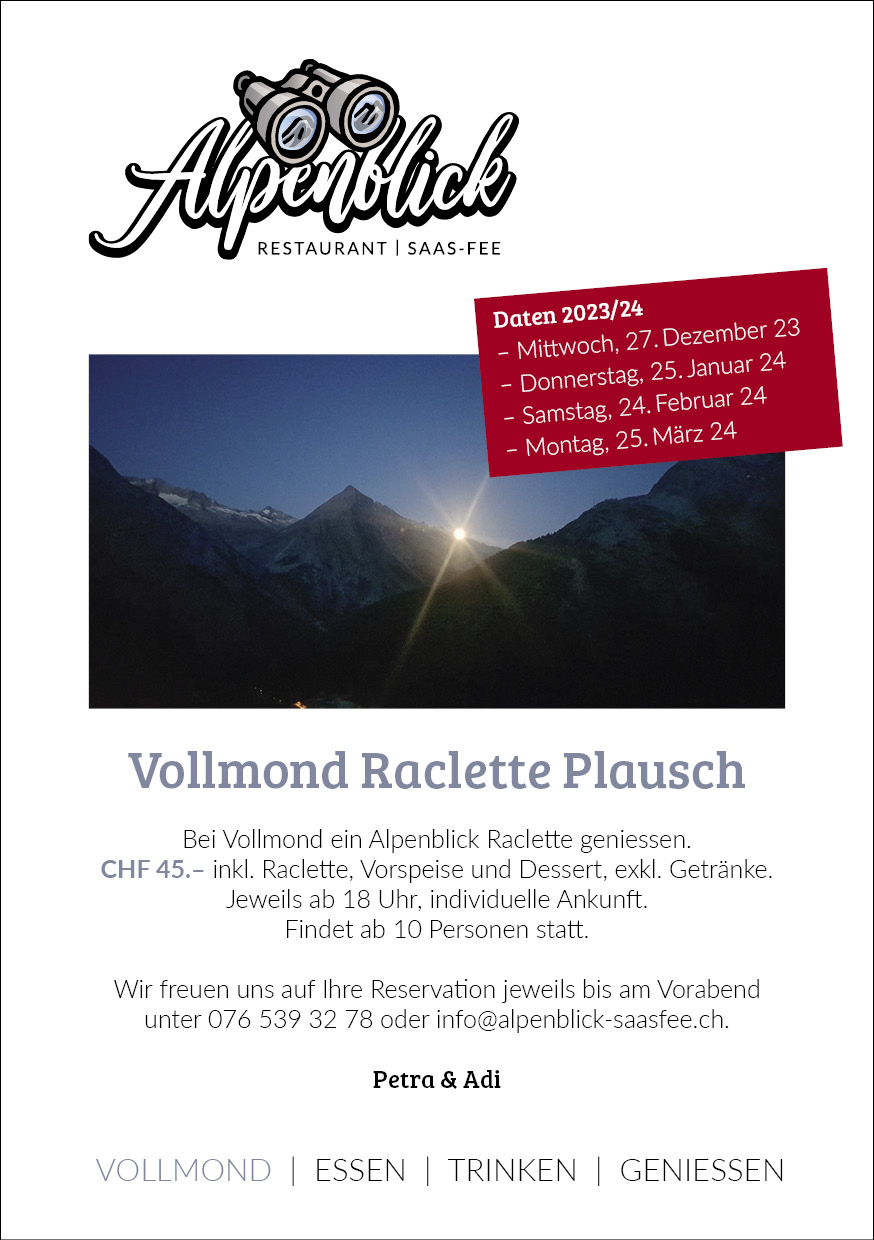
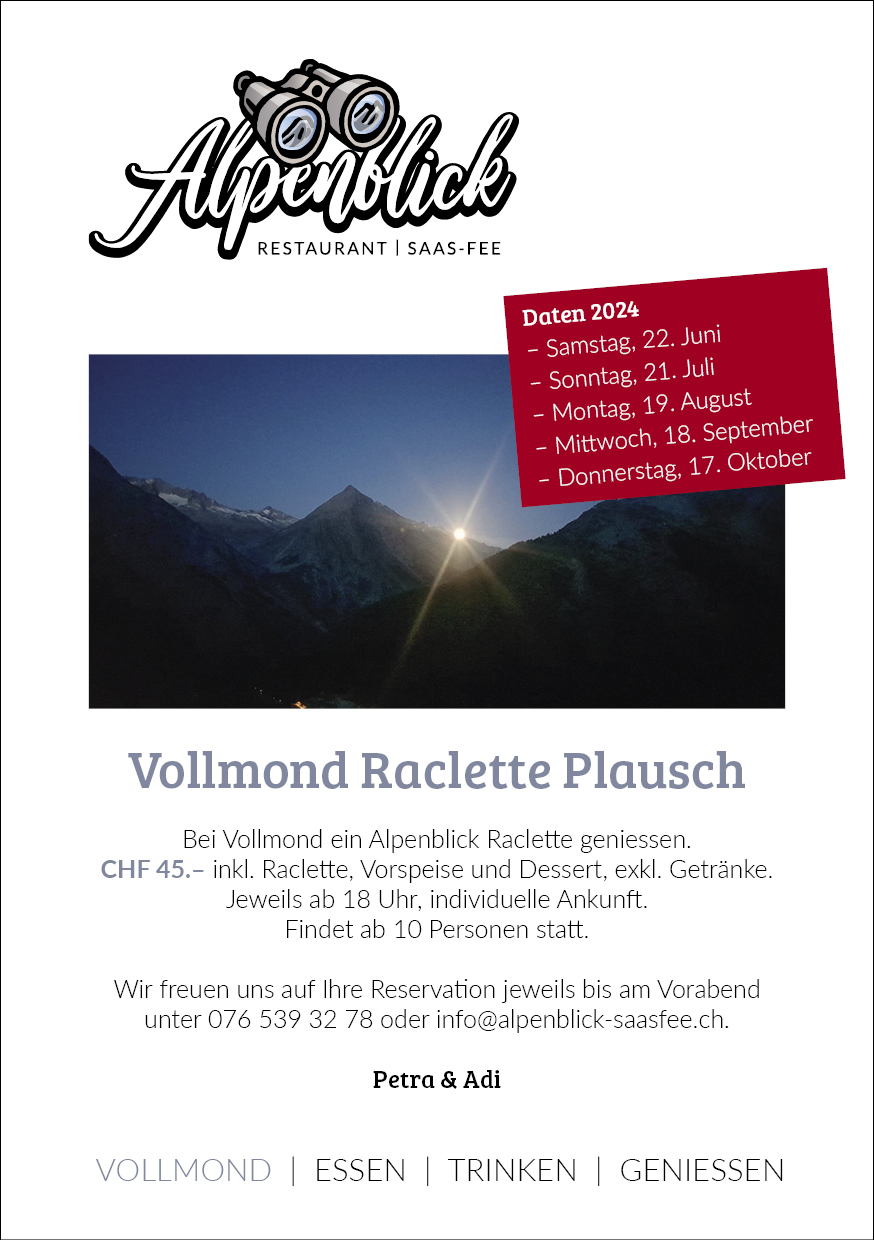
deploy: RetoZ/alpenblick-hugo@cc2db8a3a6291fa61dbd71d833c4a1ea5587e1f2

Changed region(s): [[0.5252, 0.2145, 0.9886, 0.429]]

diff --git a/index.html b/index.html
@@ -2,4 +2,4 @@
 </title><meta name=HandheldFriendly content="True"><meta name=viewport content="width=device-width,initial-scale=1"><link rel=stylesheet type=text/css href=/assets/css/normalize.css><link rel=stylesheet type=text/css href=/assets/css/icons.css><link rel=stylesheet type=text/css href=/assets/css/screen.css><link href="https://fonts.loli.net/css?family=Bree+Serif|Lato:100,100i,300,300i,400,400i,700,700i|Source+Code+Pro:300,400,500,700" rel=stylesheet><link rel=stylesheet href=/css/style.3af1e36d49b4e7aa6063a6a0d5d98c82af2ff0091cfccd1c402d019e5bbdfb0a.css integrity="sha256-OvHjbUm056pgY6ag1dmMgq8v8Akc/M0cQC0Bnlu9+wo=" media=screen><script src=https://cdn.jsdelivr.net/npm/jquery@1.12.4/dist/jquery.min.js></script><script type=text/javascript src=/assets/bigfoot/dist/bigfoot.js></script><link rel=stylesheet type=text/css href=/assets/bigfoot/dist/bigfoot-number.css><script type=text/javascript>$.bigfoot()</script></head><body class=homepage><header class=main-header><div class=main-header-content><h1 class=blog-title><a href=/>Restaurant Alpenblick<br>Saas-Fee</a></h1><h2 class=blog-description>Essen   |   Trinken   |   Geniessen</h2></div><div class=nav><a class="nav- nav-current" role=presentation href=/>Willkommen</a>
 <a class=nav- role=presentation href=/about/>Gastgeber</a>
 <a class=nav- role=presentation href=/gallery/>Gallerie</a>
-<a class=nav- role=presentation href=/contact/>Kontakt</a></div></header><main class=content role=main><img src=images/Restaurant_Alpenblick_Saas_Fee_BLAU.png alt="Restaurant Alpenblick Saas-Fee Logo" class=logo><h1 id=herzlich-willkommen->Herzlich Willkommen &mldr;</h1><p><img src=images/Alpenblick_Ansicht_16.jpg alt=Alpenblick title=Alpenblick></p><p>Geniessen Sie unser renoviertes Bergrestaurant im Sommer- und Winterwandergebiet Hannig auf 2030 Meter Höhe am Rand eines knorrigen Lärchen-Arven-Waldes und auf halbem Weg zwischen Hannig und Saas-Fee.</p><p>Die wunderschöne Sonnenterrasse mit herrlicher Aussicht auf die Berglandschaft und das rustikale Interieur unserer Zuckmayer Stube wird Ihnen gefallen. Sie werden von uns mit Schweizer Küche und feinen hausgemachten Kuchen verwöhnt.</p><p><em>Petra & Adi</em></p><h2 id=essen--trinken>Essen & Trinken</h2><ul><li>Unsere Menükarte in <a href=images/Alpenblick_Menukarte_QR_Code_DE.pdf target=_blank>Deutsch</a></li><li>Notre menu en <a href=images/Alpenblick_Menukarte_QR_Code_FR.pdf target=_blank>français</a></li><li>Our menu in <a href=images/Alpenblick_Menukarte_QR_Code_EN.pdf target=_blank>english</a></li></ul><h2 id=einen-tisch-reservieren>Einen Tisch reservieren</h2><ul><li>Statt telefonisch oder via E-Mail können Sie <a href="https://reserve.foratable.com?restaurantHash=3be5e5e9c7df6d02cb707c204c71a1ba" target=_blank>hier direkt einen Tisch reservieren</a>.</li><li>Au lieu de téléphoner ou d&rsquo;envoyer un e-mail, vous pouvez <a href="https://reserve.foratable.com?restaurantHash=3be5e5e9c7df6d02cb707c204c71a1ba" target=_blank>réserver directement une table ici</a>.</li><li>Instead of calling or emailing, you can <a href="https://reserve.foratable.com?restaurantHash=3be5e5e9c7df6d02cb707c204c71a1ba" target=_blank>book a table directly here</a>.</li></ul><h2 id=übernachten-unter-sternen>Übernachten unter Sternen</h2><p>Wir freuen uns sehr, euch über unsere Zusammenarbeit mit <strong><a href=https://www.adventurly.ch target=_blank>adventurly.ch</a></strong> informieren zu können! Seit <strong>Sommer 2023</strong> könnt ihr unsere romantische <a href=images/Alpenblick_Bubble-Suite_Tag.jpg target=_blank>Alpenblick Bubble-Suite</a> buchen und eine unvergessliche Nacht unter dem <a href=images/Alpenblick_Bubble-Suite_Nacht.jpg target=_blank>Sternenhimmel</a> geniessen. Kombiniert mit den Alpenblick Gaumenfreuden ein garantiert unvergessliches Erlebnis! <strong><a href=https://www.alpenblick-saasfee.ch/gallery/ target=_blank>Hier ein paar Impressionen</a></strong> und <strong><a href=https://adventurly.ch/unterkuenfte/bubble-suite-saas-fee/ target=_blank>hier direkt buchbar!</a></strong></p><h2 id=übernachten-im-massenlager>Übernachten im Massenlager</h2><p>Unser kleines, aber feines <a href=images/Alpenblick_Flyer_Uebernachten_2022.jpg target=_blank>Massenlager</a> für Gruppen (von mind. 6 und max. 10 Personen) ist schlafbereit!</p><h2 id=aktuelle-anlässe>Aktuelle Anlässe</h2><ul><li>Jeden Freitag: <a href=images/Alpenblick_Flyer_Freitag_Abend_Menu_2020.jpg target=_blank>Freitag Abend Überraschungsmenu</a></li><li>Montag, 25. März 2024: <a href=images/Alpenblick_Flyer_Vollmond_Raclette_Plausch.jpg target=_blank>Vollmond Raclette Plausch</a></li></ul><h2 id=auf-geschenksuche-warum-nicht->Auf Geschenksuche? Warum nicht &mldr;</h2><ul><li>&mldr; einen Alpenblick Gutschein via <a href="mailto:info@alpenblick-saasfee.ch?Subject=Gutscheinbestellung">E-Mail</a> bestellen?</li><li>&mldr; ein Satz <a href=images/Alpenblick_Stirnband.jpg target=_blank>heisse Ohren</a> verteilen?</li><li>&mldr; eine <a href=images/Alpenblick_Flyer_Uebernachten_2022.jpg target=_blank>Mütze Schlaf</a> verschenken?</li><li>&mldr; einen <a href=images/Alpenblick_Postkarten.jpg target=_blank>Postkartengruss</a> versenden?</li><li>&mldr; ein bisschen <a href=images/Alpenblick_Flyer_Verfeinern_2021.jpg target=_blank>Würze</a> reinbringen?</li></ul><h2 id=instagram-foto-wettbewerb>Instagram Foto Wettbewerb</h2><p><a href=https://www.instagram.com/alpenblick_saasfee/ target=_blank alt=Instagram title=Instagram><img src=images/Alpenblick_Insta_Foto_Wettbewerb.jpg alt=Instagram></a></p><ul><li>Siegerfoto Juli 2023: <a href=images/Alpenblick_alpenblickwinkel_23_07_saastalmagnifique.png target=_blank>saastalmagnifique</a></li><li>Siegerfoto Januar 2023: <a href=images/Alpenblick_alpenblickwinkel_23_01_yoga_kristina.png target=_blank>Yoga Kristina</a></li><li>Siegerfoto Dezember 2022: <a href=images/Alpenblick_alpenblickwinkel_22_12_fimian_pia.png target=_blank>Pia Fimian</a></li><li>Siegerfoto September 2022: <a href=images/Alpenblick_alpenblickwinkel_22_09_wuerschtom.png target=_blank>Tom Würsch</a></li><li>Siegerfoto März 2022: <a href=images/Alpenblick_alpenblickwinkel_22_03_Andrea_Teufer.png target=_blank>Andrea Teufer</a></li><li>Siegerfoto Juli 2021: <a href=images/Alpenblick_alpenblickwinkel_21_07_udocasel.png target=_blank>udocasel</a></li><li>Siegerfoto Juni 2021: <a href=images/Alpenblick_alpenblickwinkel_21_06_frederika_w.png target=_blank>frederika.w</a></li><li>Siegerfoto September 2020: <a href=images/Alpenblick_alpenblickwinkel_20_09_hosch_daniel.png target=_blank>hosch.daniel</a></li><li>Siegerfoto August 2020: <a href=images/Alpenblick_alpenblickwinkel_20_08_aerdna_nietsttew.png target=_blank>aerdna.nietsttew</a></li><li>Siegerfoto Juli 2020: <a href=images/Alpenblick_alpenblickwinkel_20_07_misakj_kagesakj.png target=_blank>misakj_kagesakj</a></li></ul><h2 id=hat-es-direuch-gefallen-bei-uns>Hat es dir/euch gefallen bei uns?</h2><p>Danke für deine Bewertung:<br><a href=https://www.suissegourmet.ch/saas-fee/restaurant-alpenblick/ target=_blank alt="Die besten Restaurants in Schweiz" title="Die besten Restaurants in Schweiz"><img src="https://www.suissegourmet.ch/gourmetbutton/stempel.php?rid=72573" alt="Die besten Restaurants in Schweiz"></a></p><br><p><a href=https://www.saas-fee.ch/ target=_blank alt=Saas-Fee title=Saas-Fee><img src=images/Saas-Fee_Logo_Rot_RGB.svg alt=Saas-Fee class=logo></a></p></main><footer class=site-footer><section class=facebook><a class=icon-facebook href=https://www.facebook.com/saasfee.ch/></a></section><section class=copyright>&copy; 2024 Alpenblick Gastro GmbH</section><section class=poweredby>Published with <a href=https://gohugo.io>Hugo</a>.</section></footer></body></html>
+<a class=nav- role=presentation href=/contact/>Kontakt</a></div></header><main class=content role=main><img src=images/Restaurant_Alpenblick_Saas_Fee_BLAU.png alt="Restaurant Alpenblick Saas-Fee Logo" class=logo><h1 id=herzlich-willkommen->Herzlich Willkommen &mldr;</h1><p><img src=images/Alpenblick_Ansicht_16.jpg alt=Alpenblick title=Alpenblick></p><p>Geniessen Sie unser renoviertes Bergrestaurant im Sommer- und Winterwandergebiet Hannig auf 2030 Meter Höhe am Rand eines knorrigen Lärchen-Arven-Waldes und auf halbem Weg zwischen Hannig und Saas-Fee.</p><p>Die wunderschöne Sonnenterrasse mit herrlicher Aussicht auf die Berglandschaft und das rustikale Interieur unserer Zuckmayer Stube wird Ihnen gefallen. Sie werden von uns mit Schweizer Küche und feinen hausgemachten Kuchen verwöhnt.</p><p><em>Petra & Adi</em></p><h2 id=essen--trinken>Essen & Trinken</h2><ul><li>Unsere Menükarte in <a href=images/Alpenblick_Menukarte_QR_Code_DE.pdf target=_blank>Deutsch</a></li><li>Notre menu en <a href=images/Alpenblick_Menukarte_QR_Code_FR.pdf target=_blank>français</a></li><li>Our menu in <a href=images/Alpenblick_Menukarte_QR_Code_EN.pdf target=_blank>english</a></li></ul><h2 id=einen-tisch-reservieren>Einen Tisch reservieren</h2><ul><li>Statt telefonisch oder via E-Mail können Sie <a href="https://reserve.foratable.com?restaurantHash=3be5e5e9c7df6d02cb707c204c71a1ba" target=_blank>hier direkt einen Tisch reservieren</a>.</li><li>Au lieu de téléphoner ou d&rsquo;envoyer un e-mail, vous pouvez <a href="https://reserve.foratable.com?restaurantHash=3be5e5e9c7df6d02cb707c204c71a1ba" target=_blank>réserver directement une table ici</a>.</li><li>Instead of calling or emailing, you can <a href="https://reserve.foratable.com?restaurantHash=3be5e5e9c7df6d02cb707c204c71a1ba" target=_blank>book a table directly here</a>.</li></ul><h2 id=übernachten-unter-sternen>Übernachten unter Sternen</h2><p>Wir freuen uns sehr, euch über unsere Zusammenarbeit mit <strong><a href=https://www.adventurly.ch target=_blank>adventurly.ch</a></strong> informieren zu können! Seit <strong>Sommer 2023</strong> könnt ihr unsere romantische <a href=images/Alpenblick_Bubble-Suite_Tag.jpg target=_blank>Alpenblick Bubble-Suite</a> buchen und eine unvergessliche Nacht unter dem <a href=images/Alpenblick_Bubble-Suite_Nacht.jpg target=_blank>Sternenhimmel</a> geniessen. Kombiniert mit den Alpenblick Gaumenfreuden ein garantiert unvergessliches Erlebnis! <strong><a href=https://www.alpenblick-saasfee.ch/gallery/ target=_blank>Hier ein paar Impressionen</a></strong> und <strong><a href=https://adventurly.ch/unterkuenfte/bubble-suite-saas-fee/ target=_blank>hier direkt buchbar!</a></strong></p><h2 id=übernachten-im-massenlager>Übernachten im Massenlager</h2><p>Unser kleines, aber feines <a href=images/Alpenblick_Flyer_Uebernachten_2022.jpg target=_blank>Massenlager</a> für Gruppen (von mind. 6 und max. 10 Personen) ist schlafbereit!</p><h2 id=aktuelle-anlässe>Aktuelle Anlässe</h2><ul><li>Jeden Freitag: <a href=images/Alpenblick_Flyer_Freitag_Abend_Menu_2020.jpg target=_blank>Freitag Abend Überraschungsmenu</a></li><li>Sonntag, 31. März 2024: <a href=images/Alpenblick_Flyer_Ostern.jpg target=_blank>Alpenblick Ostereiersuche</a></li><li>Samstag, 22. Juni 2024: <a href=images/Alpenblick_Flyer_Vollmond_Raclette_Plausch.jpg target=_blank>Vollmond Raclette Plausch</a></li><li>Sonntag, 21. Juli 2024: <a href=images/Alpenblick_Flyer_Vollmond_Raclette_Plausch.jpg target=_blank>Vollmond Raclette Plausch</a></li><li>Montag, 19. August 2024: <a href=images/Alpenblick_Flyer_Vollmond_Raclette_Plausch.jpg target=_blank>Vollmond Raclette Plausch</a></li><li>Mittwoch, 18. September 2024: <a href=images/Alpenblick_Flyer_Vollmond_Raclette_Plausch.jpg target=_blank>Vollmond Raclette Plausch</a></li><li>Donnerstag, 17. Oktober 2024: <a href=images/Alpenblick_Flyer_Vollmond_Raclette_Plausch.jpg target=_blank>Vollmond Raclette Plausch</a></li></ul><h2 id=auf-geschenksuche-warum-nicht->Auf Geschenksuche? Warum nicht &mldr;</h2><ul><li>&mldr; einen Alpenblick Gutschein via <a href="mailto:info@alpenblick-saasfee.ch?Subject=Gutscheinbestellung">E-Mail</a> bestellen?</li><li>&mldr; ein Satz <a href=images/Alpenblick_Stirnband.jpg target=_blank>heisse Ohren</a> verteilen?</li><li>&mldr; eine <a href=images/Alpenblick_Flyer_Uebernachten_2022.jpg target=_blank>Mütze Schlaf</a> verschenken?</li><li>&mldr; einen <a href=images/Alpenblick_Postkarten.jpg target=_blank>Postkartengruss</a> versenden?</li><li>&mldr; ein bisschen <a href=images/Alpenblick_Flyer_Verfeinern_2021.jpg target=_blank>Würze</a> reinbringen?</li></ul><h2 id=instagram-foto-wettbewerb>Instagram Foto Wettbewerb</h2><p><a href=https://www.instagram.com/alpenblick_saasfee/ target=_blank alt=Instagram title=Instagram><img src=images/Alpenblick_Insta_Foto_Wettbewerb.jpg alt=Instagram></a></p><ul><li>Siegerfoto Juli 2023: <a href=images/Alpenblick_alpenblickwinkel_23_07_saastalmagnifique.png target=_blank>saastalmagnifique</a></li><li>Siegerfoto Januar 2023: <a href=images/Alpenblick_alpenblickwinkel_23_01_yoga_kristina.png target=_blank>Yoga Kristina</a></li><li>Siegerfoto Dezember 2022: <a href=images/Alpenblick_alpenblickwinkel_22_12_fimian_pia.png target=_blank>Pia Fimian</a></li><li>Siegerfoto September 2022: <a href=images/Alpenblick_alpenblickwinkel_22_09_wuerschtom.png target=_blank>Tom Würsch</a></li><li>Siegerfoto März 2022: <a href=images/Alpenblick_alpenblickwinkel_22_03_Andrea_Teufer.png target=_blank>Andrea Teufer</a></li><li>Siegerfoto Juli 2021: <a href=images/Alpenblick_alpenblickwinkel_21_07_udocasel.png target=_blank>udocasel</a></li><li>Siegerfoto Juni 2021: <a href=images/Alpenblick_alpenblickwinkel_21_06_frederika_w.png target=_blank>frederika.w</a></li><li>Siegerfoto September 2020: <a href=images/Alpenblick_alpenblickwinkel_20_09_hosch_daniel.png target=_blank>hosch.daniel</a></li><li>Siegerfoto August 2020: <a href=images/Alpenblick_alpenblickwinkel_20_08_aerdna_nietsttew.png target=_blank>aerdna.nietsttew</a></li><li>Siegerfoto Juli 2020: <a href=images/Alpenblick_alpenblickwinkel_20_07_misakj_kagesakj.png target=_blank>misakj_kagesakj</a></li></ul><h2 id=hat-es-direuch-gefallen-bei-uns>Hat es dir/euch gefallen bei uns?</h2><p>Danke für deine Bewertung:<br><a href=https://www.suissegourmet.ch/saas-fee/restaurant-alpenblick/ target=_blank alt="Die besten Restaurants in Schweiz" title="Die besten Restaurants in Schweiz"><img src="https://www.suissegourmet.ch/gourmetbutton/stempel.php?rid=72573" alt="Die besten Restaurants in Schweiz"></a></p><br><p><a href=https://www.saas-fee.ch/ target=_blank alt=Saas-Fee title=Saas-Fee><img src=images/Saas-Fee_Logo_Rot_RGB.svg alt=Saas-Fee class=logo></a></p></main><footer class=site-footer><section class=facebook><a class=icon-facebook href=https://www.facebook.com/saasfee.ch/></a></section><section class=copyright>&copy; 2024 Alpenblick Gastro GmbH</section><section class=poweredby>Published with <a href=https://gohugo.io>Hugo</a>.</section></footer></body></html>
